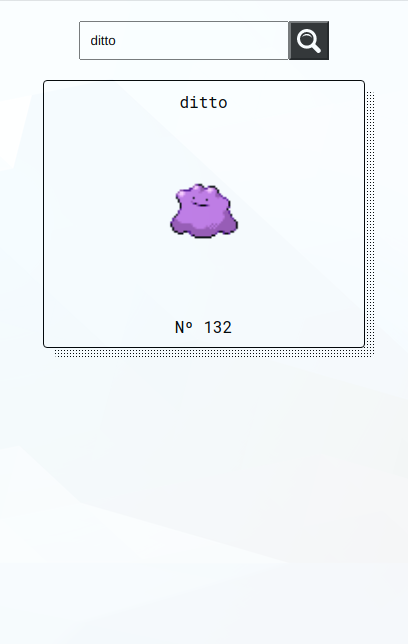
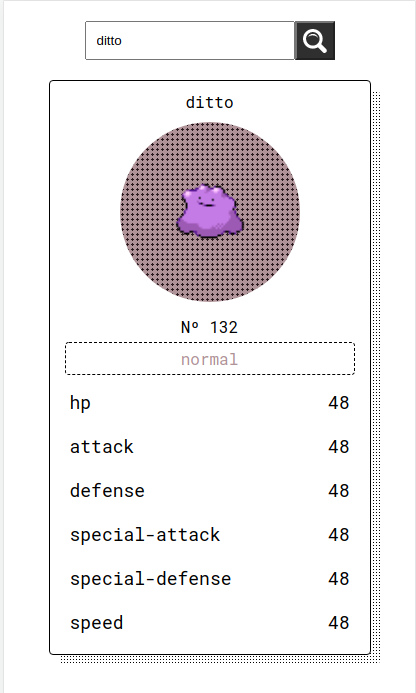
fix: upgrade colors and types

diff --git a/src/index.js b/src/index.js
@@ -41,19 +41,15 @@ const searchPokemon = async (event) => {
 
   try {
     const searchText = value.trim().toLowerCase()
-    console.log({ searchText })
-
     if (!searchText) {
       return renderNotFound()
     }
+    
     const response = await fetch(`${API_URL}${searchText}`)
     const pokemon = await response.json()
 
-    enableForm(true)
     renderPokemonData(pokemon)
-    console.log(pokemon)
   } catch (error) {
-    enableForm(true)
     renderNotFound()
   }
 }
@@ -71,7 +67,6 @@ const enableForm = (enable = true) => {
 
 // Events
 const renderPokemonData = (data) => {
-  console.log({ data })
   const sprite = data.sprites.front_default
   const { stats, types } = data
 
@@ -79,16 +74,17 @@ const renderPokemonData = (data) => {
   $pokeImg.setAttribute('src', sprite)
   $pokeId.textContent = `Nº ${data.id}`
 
-  // setCardColor(types)
-  // renderPokemonTypes(types)
-  // renderPokemonStats(stats)
+  setCardColor(types)
+  renderPokemonTypes(types)
+  renderPokemonStats(stats)
+  enableForm(true)
 }
 
 const setCardColor = (types) => {
   const [typeDefault = '', typeSecondary = ''] = types
 
-  const { name: colorDefault } = typeDefault.type
-  const { name: colorSecondary } = typeSecondary.type
+  const colorDefault = typeDefault?.type?.name || ''
+  const colorSecondary = typeSecondary?.type?.name || ''
 
   const colorOne = TYPE_COLORS[colorDefault] || TYPE_COLORS.default
   const colorTwo = TYPE_COLORS[colorSecondary] || TYPE_COLORS.default
@@ -129,6 +125,8 @@ const renderPokemonStats = (stats) => {
 }
 
 const renderNotFound = () => {
+  enableForm(true)
+
   $pokeName.textContent = 'No encontrado'
   $pokeImg.setAttribute('src', 'assets/poke-shadow.png')
   $pokeImg.style.background = '#fff'

diff --git a/src/index.html b/src/index.html
@@ -13,9 +13,9 @@
   </head>
   <body>
     <form id="form">
-      <input #search name="pokemon" type="text" autocomplete="off" placeholder="ditto" />
-      <button name="btnSearch">
-          <img src="./assets/search.svg" alt="">
+      <input #search name="pokemon" type="text" autocomplete="off" placeholder="ditto" title="Escribe el nombre de un pokemon" />
+      <button name="btnSearch" title="Búsqueda por nombre del pokemon">
+          <img src="./assets/search.svg" alt="Icono de búsqueda">
       </button>
     </form>
 

diff --git a/README.md b/README.md
@@ -2,7 +2,12 @@
 
 Using HTML, CSS y Javascript
 
-## Script
+### Preview
+
+![Pokedex 1](./src/assets/pokedex-desktop-1.png)
+![Pokedex 2](./src/assets/pokedex-desktop-2.png)
+
+## Scripts
 
 Install packages
 
